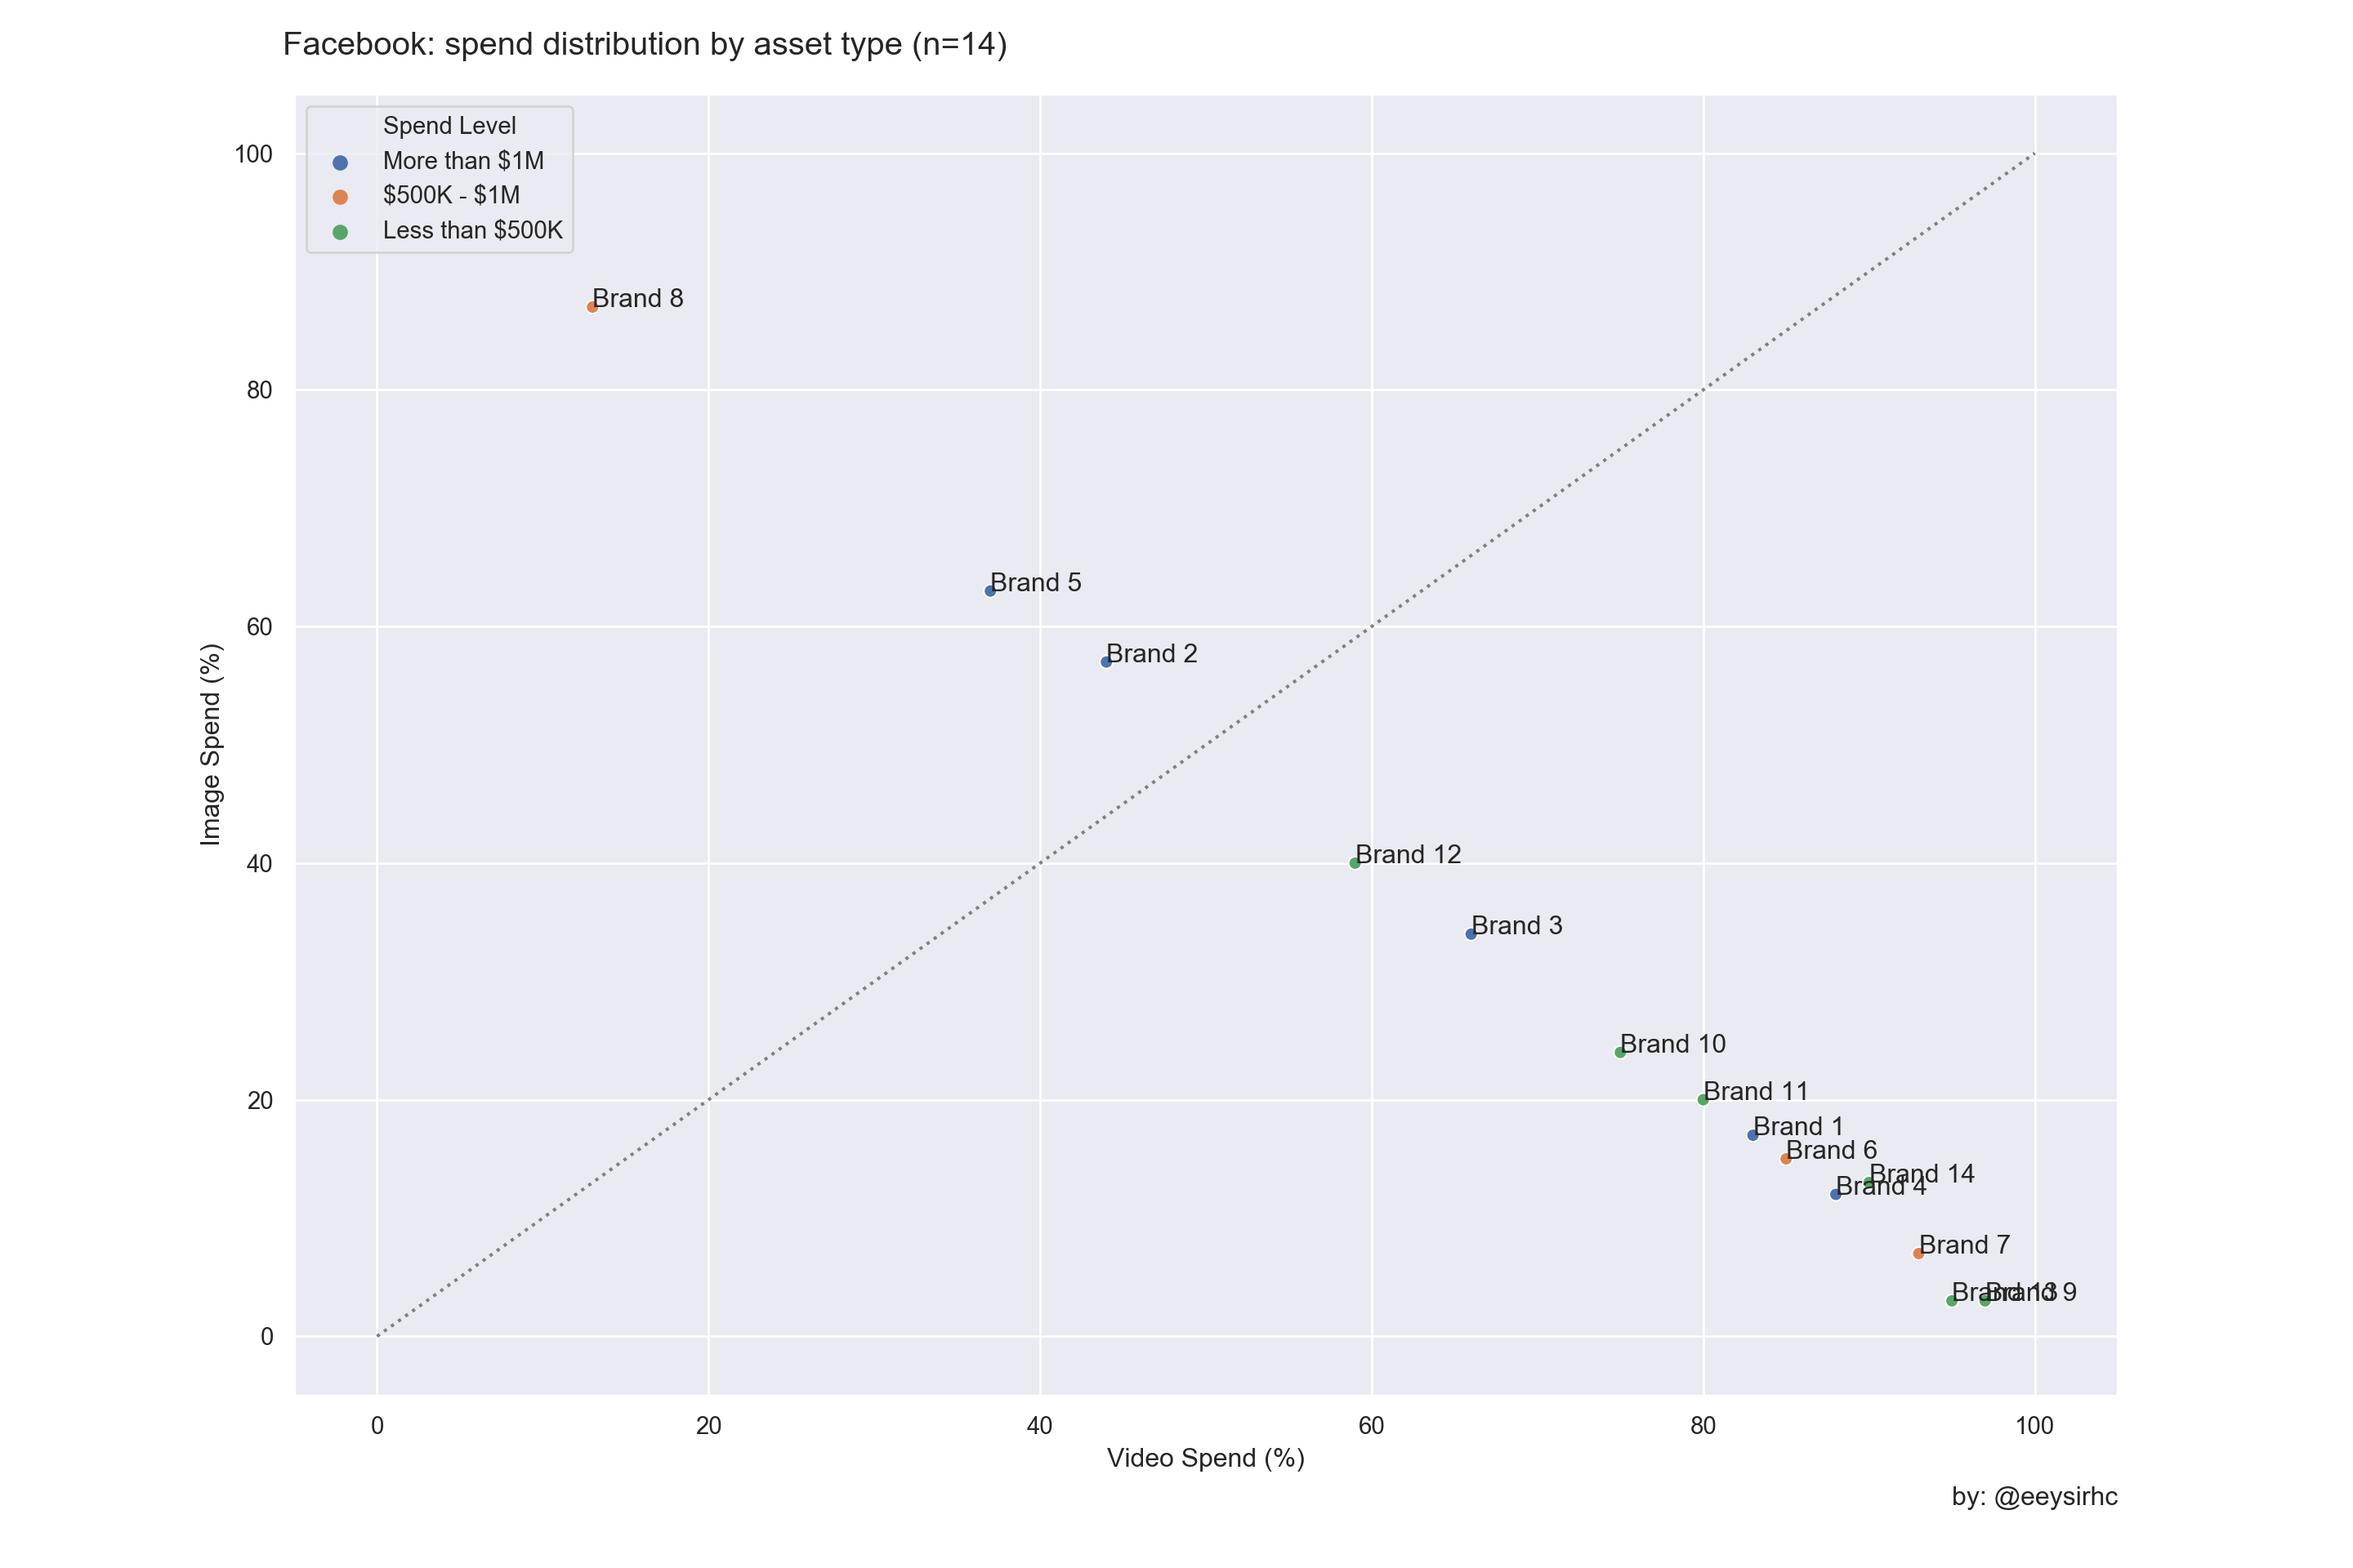
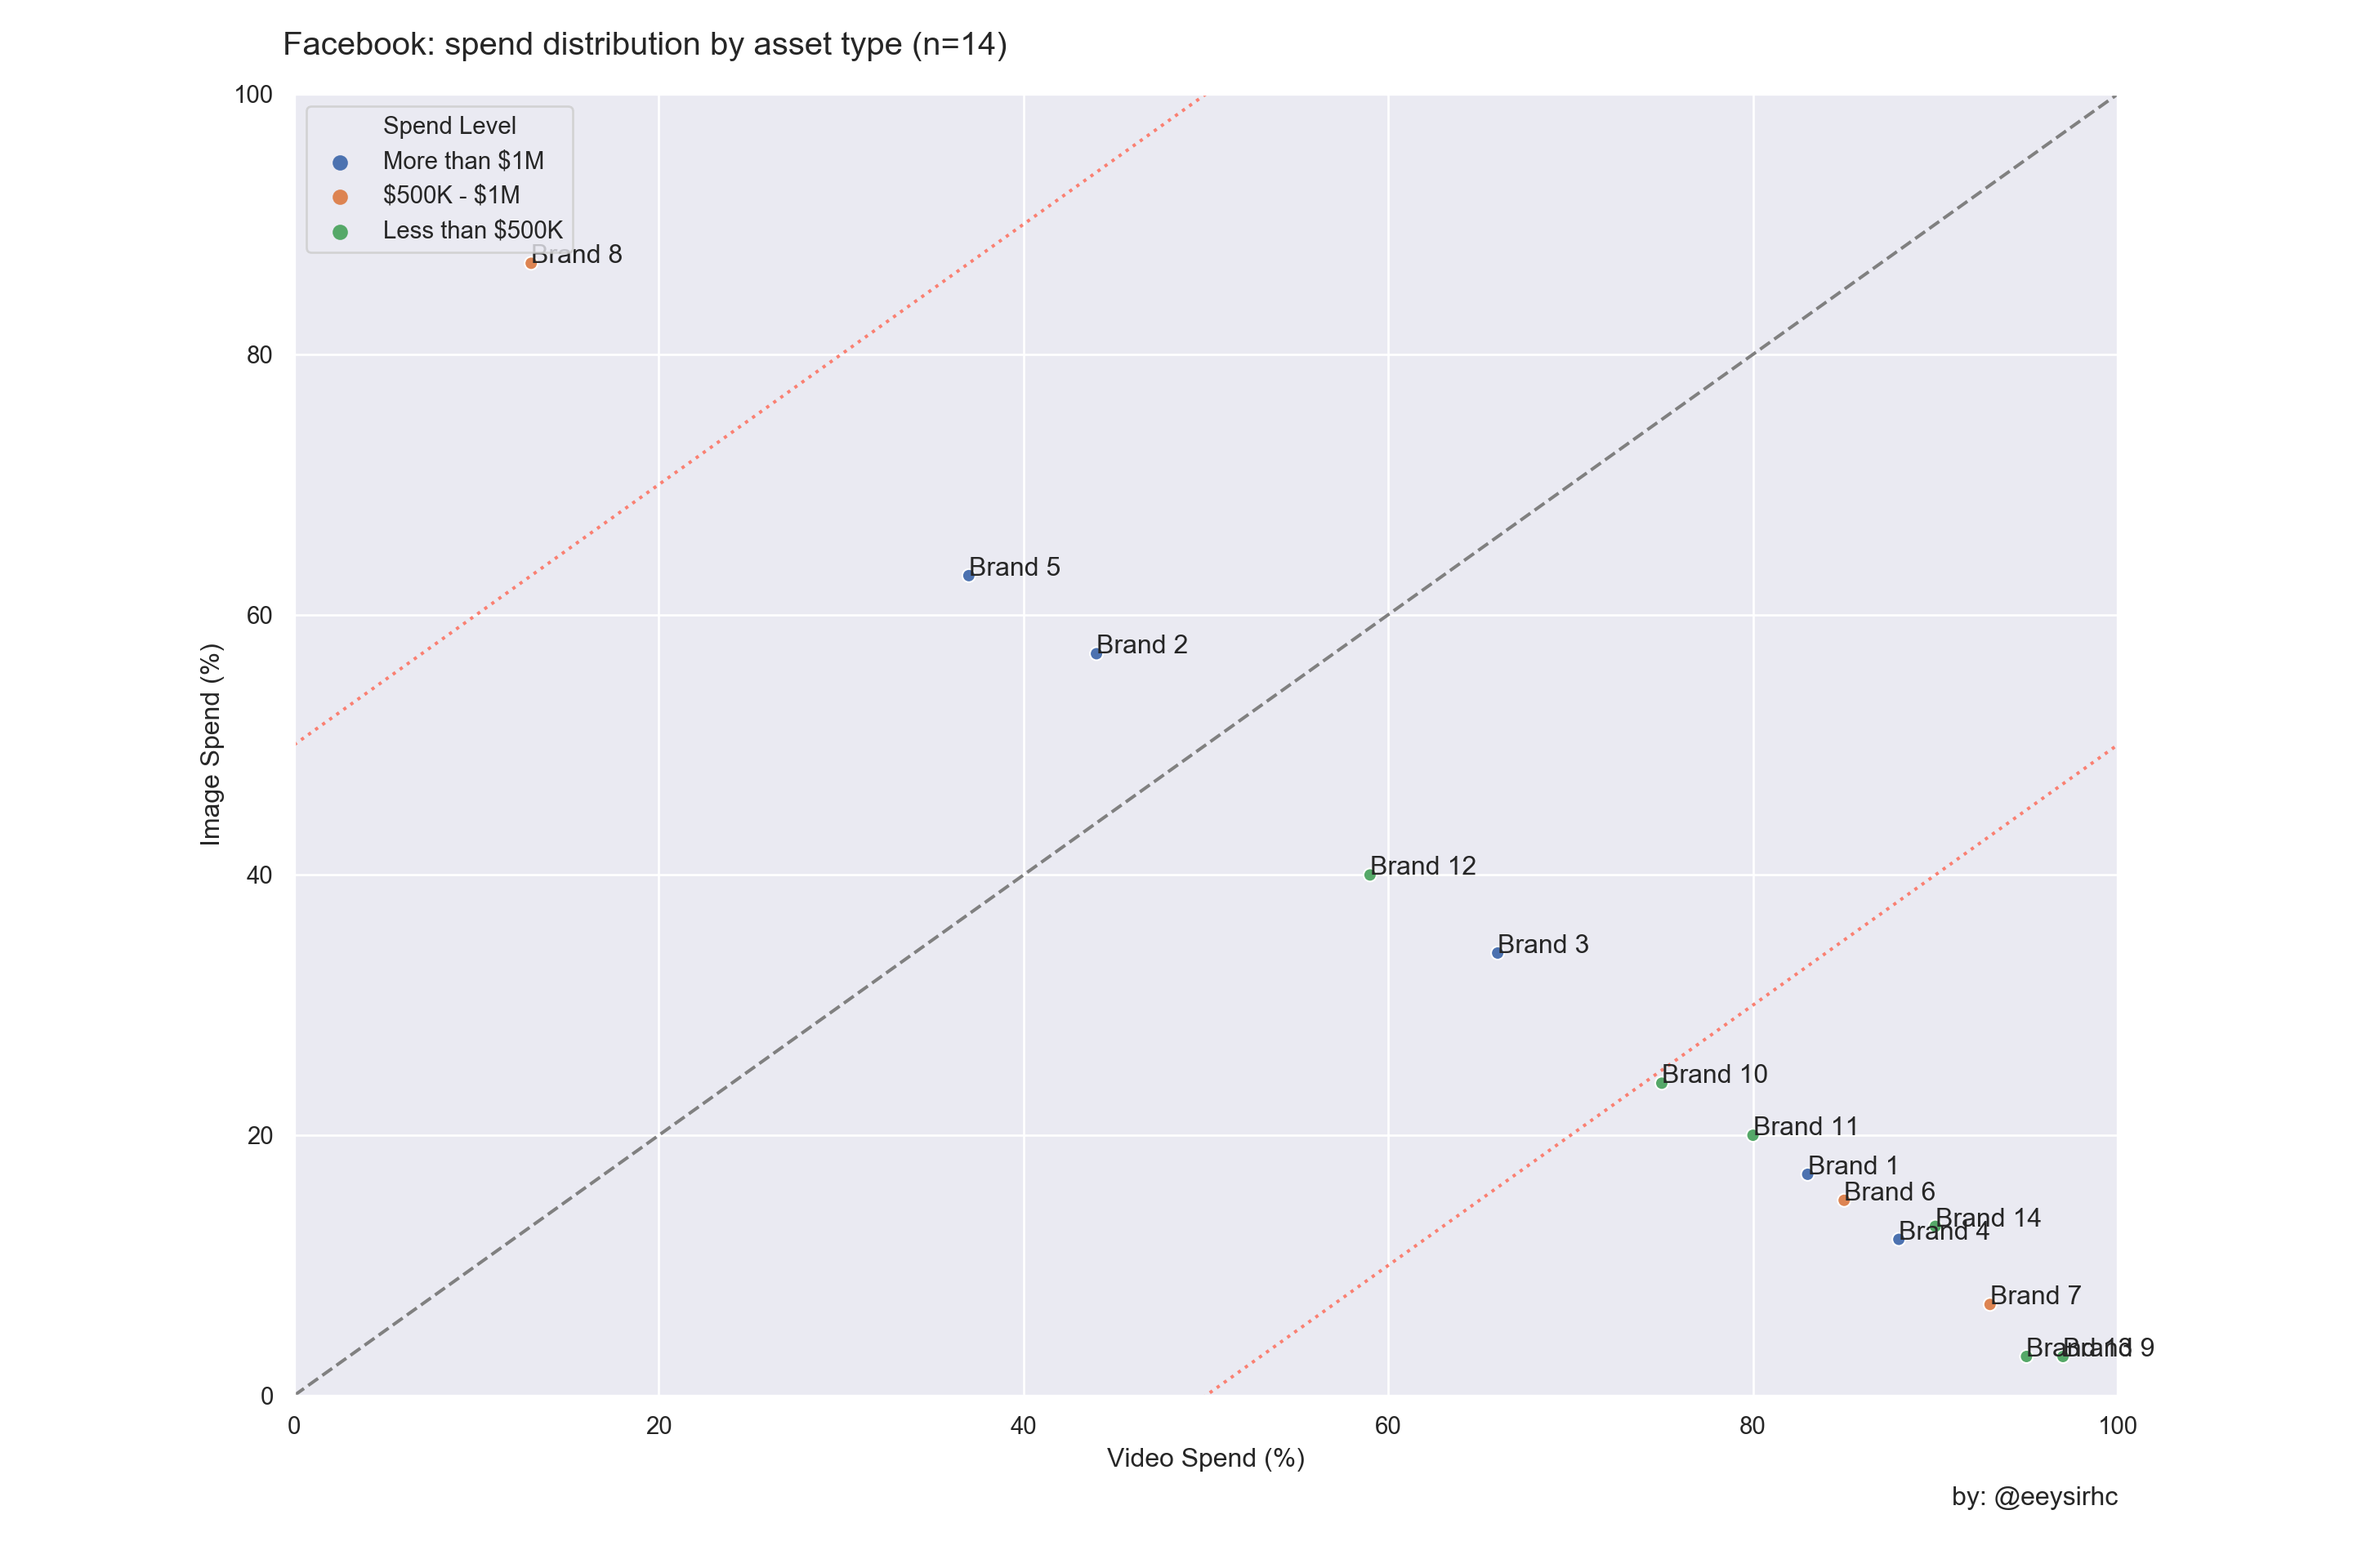
add statistical limits

diff --git a/content/blog/2021-02-10-visualizing-fb-spend-image-vs-video-creative/index.html b/content/blog/2021-02-10-visualizing-fb-spend-image-vs-video-creative/index.html
@@ -75,11 +75,15 @@ for i, text in enumerate(df.brand):
 
 # SIMULATE FOR ABLINE
 abline_plot = np.linspace(0.0, 100, 100)
-plt.plot(abline_plot, abline_plot, color=&#39;gray&#39;, linestyle=&#39;:&#39;)
+plt.plot(abline_plot, abline_plot, color=&#39;gray&#39;, linestyle=&#39;--&#39;)
+plt.plot(abline_plot, abline_plot+50, color=&#39;salmon&#39;, linestyle=&#39;:&#39;)
+plt.plot(abline_plot, abline_plot-50, color=&#39;salmon&#39;, linestyle=&#39;:&#39;)
 
 # GRAPH DETAILS
 plt.xlabel(&#39;Video Spend (%)&#39;)
 plt.ylabel(&#39;Image Spend (%)&#39;)
+plt.xlim(0,100);
+plt.ylim(0,100);
 plt.subplots_adjust(top = 0.94)
 plt.suptitle(&#39;Facebook: spend distribution by asset type (n=14)&#39;
               , x=0.12, horizontalalignment=&#39;left&#39;, fontsize=15)
@@ -87,5 +91,5 @@ plt.figtext(0.9, 0.04, &#39;by: @eeysirhc&#39;, horizontalalignment=&#39;right&#
 
 plt.show()</code></pre>
 <p><img src="{{< blogdown/postref >}}index_files/figure-html/unnamed-chunk-4-1.png" width="1440" /></p>
-<p>Note: three brands (2,5,8) above the dotted line where the majority of their Facebook spend is focused on Image assets as opposed to Video creatives.</p>
+<p>Note: we have three brands (2,5,8) above the dotted gray line which means the majority of their Facebook spend is focused on Image assets as opposed to Video creatives. Also, Brand #8 is our outlier that over-indexes on Image since it sits past the upper red line in our graph.</p>
 </div>
